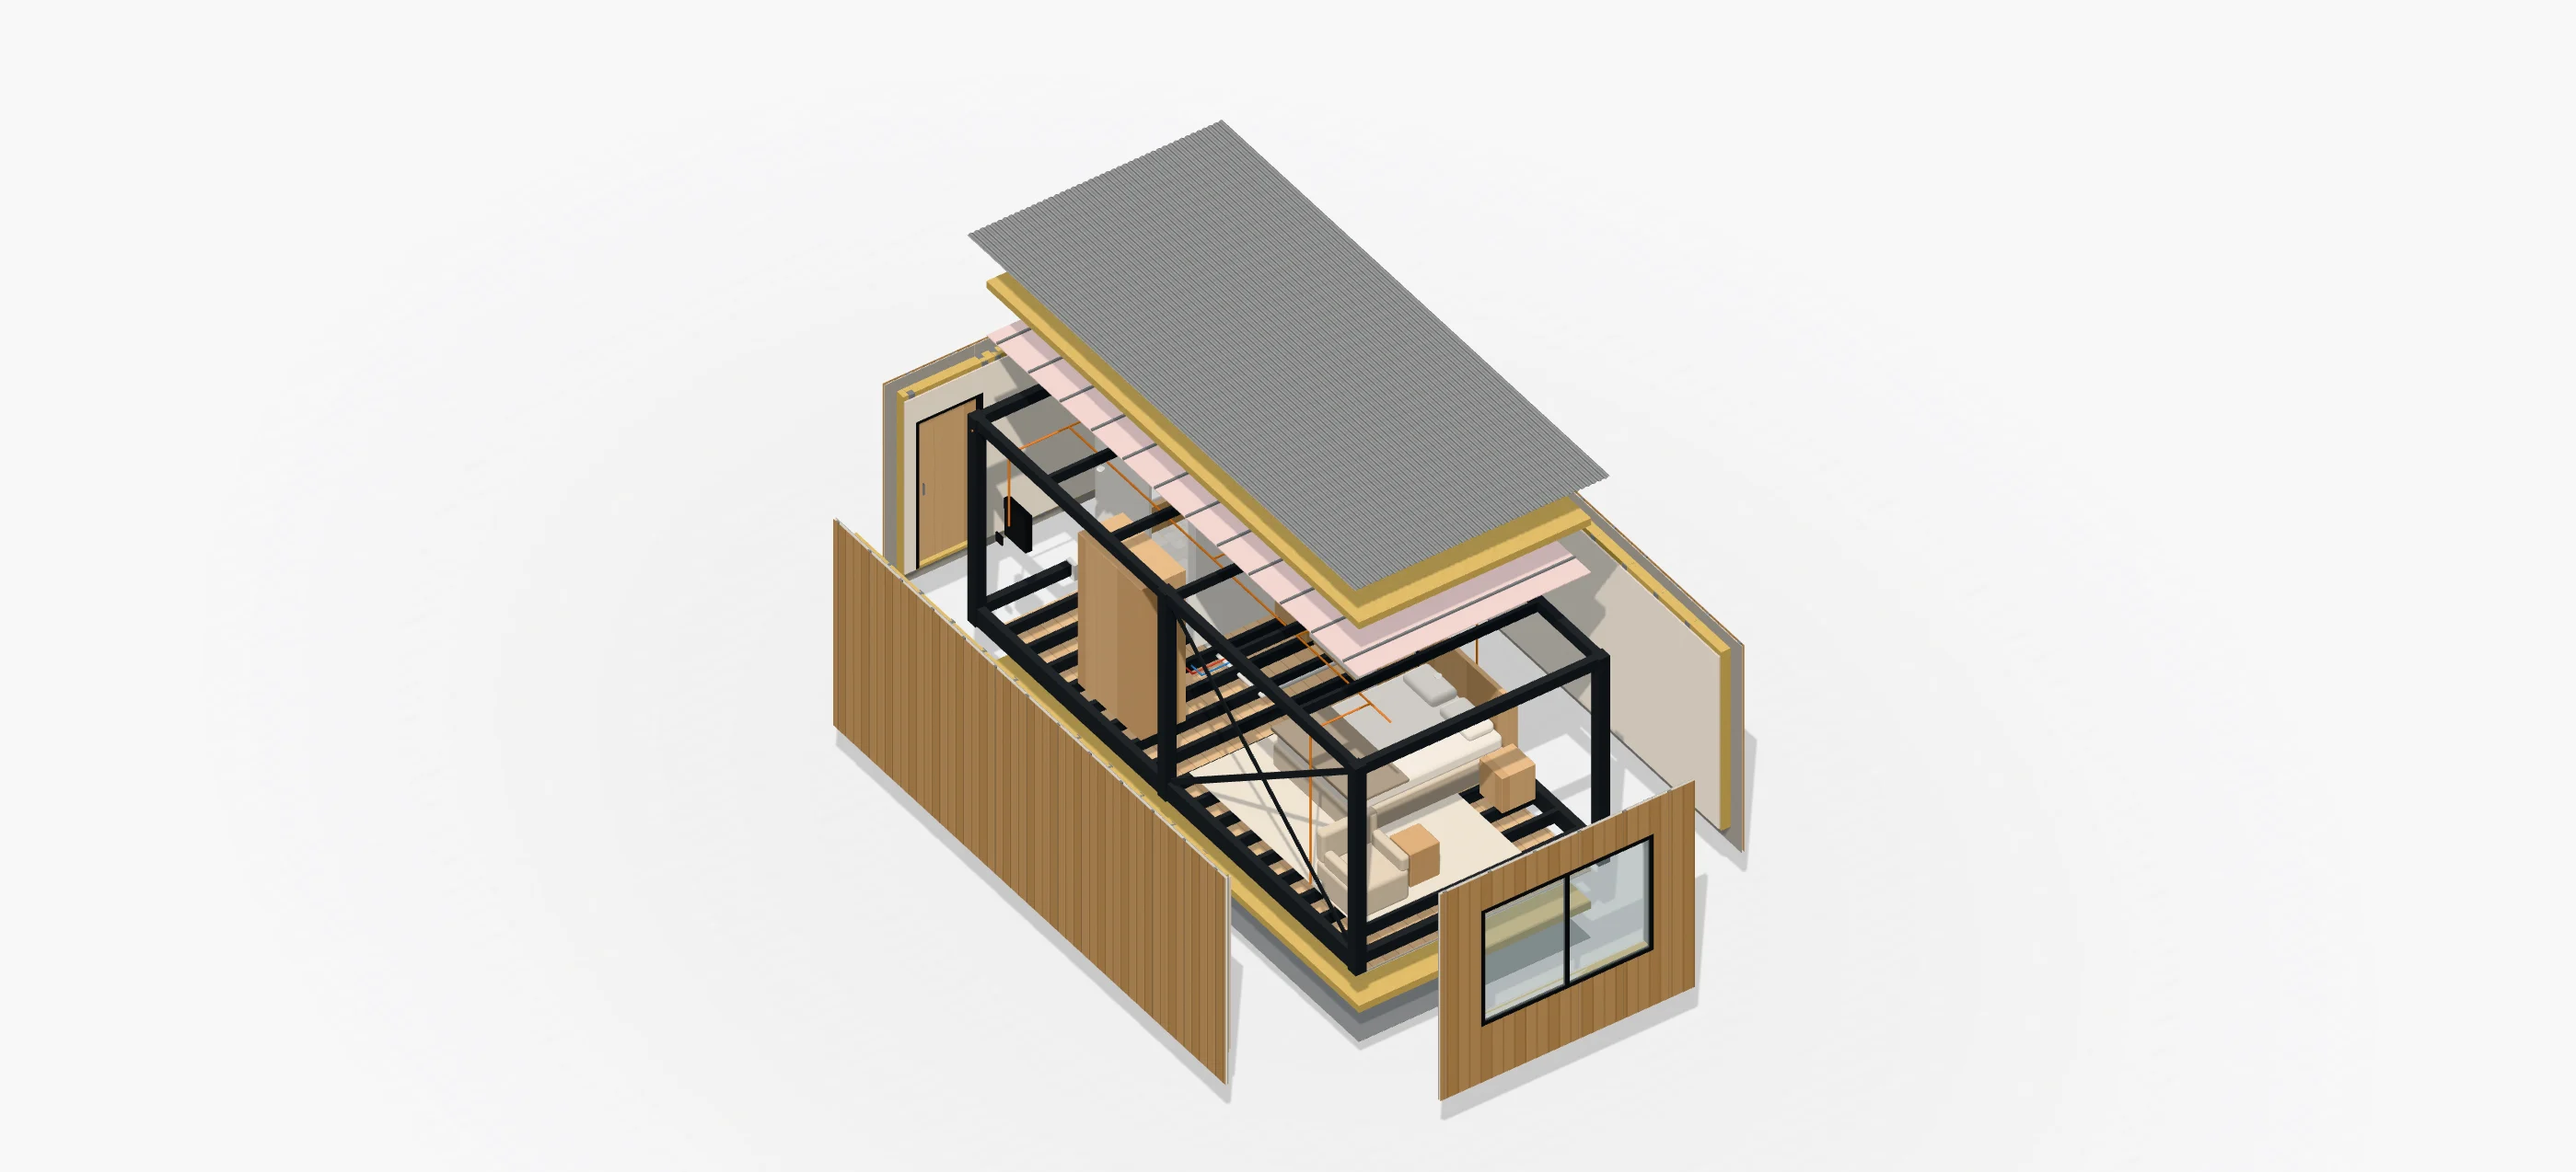
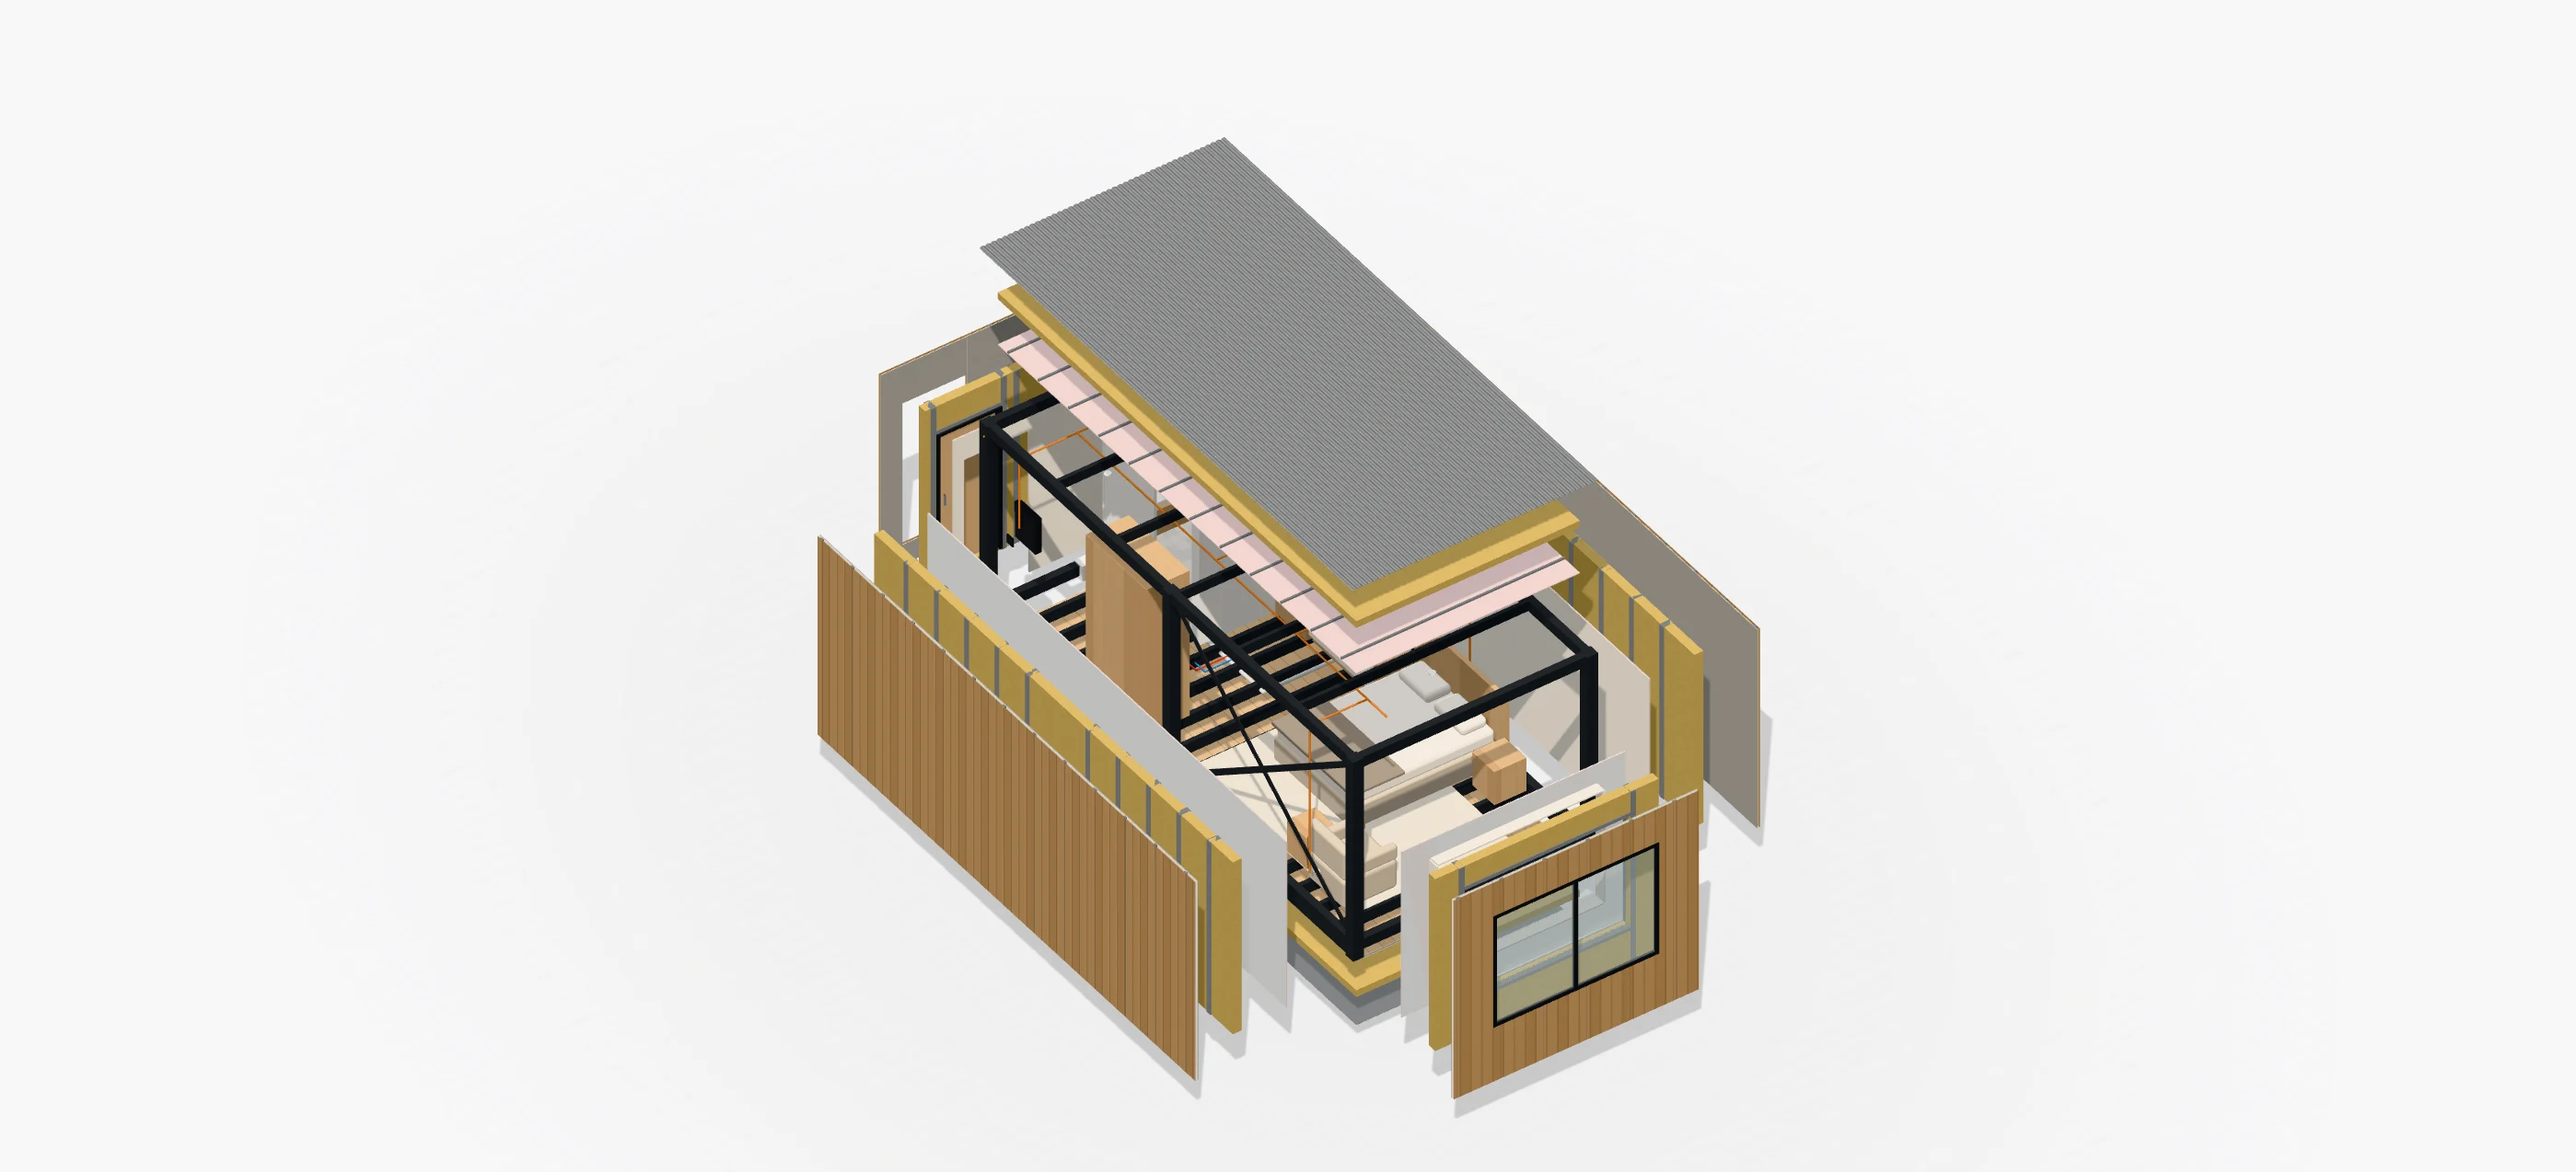
Separate the module's walls into layers and turn the armchair
Each wall now comes apart in three layers, like the floor and ceiling: the
lining, the steel studs with rock wool, and the outer skin with the cladding.
The armchair sits by the window with its back to the east wall, facing into
the room. The still is re-rendered.

Changed region(s): [[0.3109, 0.0918, 0.7152, 0.949], [0.6219, 0.8571, 0.653, 0.8878]]

diff --git a/src/lib/explorer/build-module.ts b/src/lib/explorer/build-module.ts
@@ -302,8 +302,24 @@ function addFrame(out: Out) {
 // Walls: each wall is described in its own frame (u along the wall, d through it, outwards positive from the
 // outer face of the frame), with rectangular openings cut through every layer.
 
+/** Each wall separates into three layers: lining inside, studs and rock wool, and the outer skin. */
+type WallLayer = "lining" | "frame" | "skin";
+const LAYER_OF: Partial<Record<MaterialKey, WallLayer>> = {
+  vapour: "lining",
+  plasterboard: "lining",
+  finishBoard: "lining",
+  galv: "frame",
+  rockwool: "frame",
+  fibreCement: "skin",
+  membrane: "skin",
+  batten: "skin",
+  cladding: "skin",
+  glass: "skin",
+  frameDark: "skin",
+};
+
 interface WallFrame {
-  part: PartId;
+  part: "wall-west" | "wall-east" | "wall-front" | "wall-back";
   /** Map wall-local (u along, y up, d outwards) to model space. */
   at(u: number, y: number, d: number): Vec3;
   length: number;
@@ -317,11 +333,12 @@ const walls: WallFrame[] = [
   { part: "wall-back", length: W, at: (u, y, d) => [u, y, L + d], opening: { u: DOOR.span, y: [FFL, DOOR.head] } },
 ];
 
-function wallBox(out: Out, wall: WallFrame, material: MaterialKey, u0: number, u1: number, y0: number, y1: number, d0: number, d1: number, group: GroupId = "walls") {
+function wallBox(out: Out, wall: WallFrame, material: MaterialKey, u0: number, u1: number, y0: number, y1: number, d0: number, d1: number, layer = LAYER_OF[material] ?? "frame") {
   if (u1 - u0 < 1e-4 || y1 - y0 < 1e-4) return;
   const a = wall.at(u0, y0, d0);
   const b = wall.at(u1, y1, d1);
-  out.box(group, material, [Math.min(a[0], b[0]), Math.min(a[1], b[1]), Math.min(a[2], b[2])], [Math.max(a[0], b[0]), Math.max(a[1], b[1]), Math.max(a[2], b[2])], group === "walls" ? wall.part : undefined);
+  const part = `${wall.part}-${layer}` as PartId;
+  out.box("walls", material, [Math.min(a[0], b[0]), Math.min(a[1], b[1]), Math.min(a[2], b[2])], [Math.max(a[0], b[0]), Math.max(a[1], b[1]), Math.max(a[2], b[2])], part);
 }
 
 /** A layer across the wall between u0..u1 and y0..y1 at depth d0..d1, with the wall's opening cut out. */
@@ -421,7 +438,8 @@ function addDoor(out: Out) {
   const [y0, y1] = o.y;
   const f = 0.04;
   const reveal = -PROFILES.stud.depth - WALL.plasterboard - WALL.finish - MIN_SHEET;
-  const piece = (a: number, b: number, c: number, e: number, material: MaterialKey, dd0: number, dd1: number) => wallBox(out, wall, material, a, b, c, e, dd0, dd1);
+  // The door and its frame travel with the studs when the wall separates
+  const piece = (a: number, b: number, c: number, e: number, material: MaterialKey, dd0: number, dd1: number) => wallBox(out, wall, material, a, b, c, e, dd0, dd1, "frame");
   piece(u0, u0 + f, y0, y1, "frameDark", reveal, WALL.board);
   piece(u1 - f, u1, y0, y1, "frameDark", reveal, WALL.board);
   piece(u0, u1, y1 - f, y1, "frameDark", reveal, WALL.board);

diff --git a/src/data/explorer/module-info.ts b/src/data/explorer/module-info.ts
@@ -4,7 +4,7 @@
  */
 
 import type { ExplorerPart } from "@/lib/explorer/parts";
-import type { GroupId, PartId, Vec3 } from "./module";
+import type { GroupId, Vec3 } from "./module";
 
 const PROPOSAL = "Rowland Street modular proposal";
 
@@ -103,11 +103,17 @@ export const moduleParts: (ExplorerPart & { id: GroupId })[] = [
 /**
  * Offsets at full separation, in metres. The floor layers stay low and everything else rises, so nothing drops
  * below the ground: the floor layers, then the frame with its fit-out and services, the walls pulled out on all
- * four sides (and lower), then the ceiling layers above, as in the proposal's exploded module.
+ * four sides (and lower), each wall in three layers, then the ceiling layers above, as in the proposal's exploded module.
  */
 const FRAME_LIFT = 1.6;
 const WALL_LIFT = 0.7; // lower than the frame, so the walls pulled towards the viewer don't hide the interior
-export const moduleExplode: Record<GroupId | PartId, Vec3> = {
+
+/** A wall's three layers move outwards by increasing distances: lining nearest the frame, then studs, then skin. */
+function wallLayers(wall: string, [dx, , dz]: Vec3, [lining, frame, skin]: [number, number, number]): Record<string, Vec3> {
+  const at = (distance: number): Vec3 => [dx * distance, WALL_LIFT, dz * distance];
+  return { [`${wall}-lining`]: at(lining), [`${wall}-frame`]: at(frame), [`${wall}-skin`]: at(skin) };
+}
+export const moduleExplode: Record<string, Vec3> = {
   structure: [0, FRAME_LIFT, 0],
   floor: [0, 0, 0],
   walls: [0, WALL_LIFT, 0],
@@ -122,10 +128,10 @@ export const moduleExplode: Record<GroupId | PartId, Vec3> = {
   "floor-base": [0, 0, 0],
   "floor-insulation": [0, 0.55, 0],
   "floor-deck": [0, 1.05, 0],
-  "wall-west": [-2.3, WALL_LIFT, 0],
-  "wall-east": [2.3, WALL_LIFT, 0],
-  "wall-front": [0, WALL_LIFT, -2.1],
-  "wall-back": [0, WALL_LIFT, 2.1],
+  ...wallLayers("wall-west", [-1, 0, 0], [1.3, 2.1, 2.9]),
+  ...wallLayers("wall-east", [1, 0, 0], [1.3, 2.1, 2.9]),
+  ...wallLayers("wall-front", [0, 0, -1], [1.2, 1.9, 2.6]),
+  ...wallLayers("wall-back", [0, 0, 1], [1.2, 1.9, 2.6]),
   "ceiling-lining": [0, 3.4, 0],
   "ceiling-insulation": [0, 4.2, 0],
   "ceiling-deck": [0, 5.0, 0],

diff --git a/src/data/explorer/module.ts b/src/data/explorer/module.ts
@@ -36,10 +36,7 @@ export type PartId =
   | "floor-base"
   | "floor-insulation"
   | "floor-deck"
-  | "wall-west"
-  | "wall-east"
-  | "wall-front"
-  | "wall-back"
+  | `${"wall-west" | "wall-east" | "wall-front" | "wall-back"}-${"lining" | "frame" | "skin"}`
   | "ceiling-lining"
   | "ceiling-insulation"
   | "ceiling-deck";
@@ -163,12 +160,12 @@ export const blocks: Block[] = [
   { group: "furniture", material: "linen", min: [0.3, FFL + 0.5, 2.45], max: [0.66, FFL + 0.64, 3.05], radius: 0.06 },
   { group: "furniture", material: "oak", min: [0.25, FFL, 1.06], max: [0.7, FFL + 0.5, 1.5], radius: 0.01 },
   { group: "furniture", material: "oak", min: [0.25, FFL, 3.3], max: [0.7, FFL + 0.5, 3.74], radius: 0.01 },
-  // Armchair, side table and rug by the window
-  { group: "furniture", material: "fabric", min: [2.35, FFL, 0.45], max: [3.1, FFL + 0.42, 1.2], radius: 0.06 },
-  { group: "furniture", material: "fabric", min: [2.35, FFL + 0.42, 1.05], max: [3.1, FFL + 0.85, 1.2], radius: 0.05 },
-  { group: "furniture", material: "fabric", min: [2.35, FFL + 0.42, 0.45], max: [2.47, FFL + 0.62, 1.05], radius: 0.04 },
-  { group: "furniture", material: "fabric", min: [2.98, FFL + 0.42, 0.45], max: [3.1, FFL + 0.62, 1.05], radius: 0.04 },
-  { group: "furniture", material: "oak", min: [1.85, FFL, 0.6], max: [2.25, FFL + 0.48, 1.0], radius: 0.02 },
+  // Armchair by the window with its back to the east wall, facing into the room, and a side table beside it
+  { group: "furniture", material: "fabric", min: [2.42, FFL, 0.5], max: [3.17, FFL + 0.42, 1.25], radius: 0.06 },
+  { group: "furniture", material: "fabric", min: [3.03, FFL + 0.42, 0.5], max: [3.17, FFL + 0.85, 1.25], radius: 0.05 },
+  { group: "furniture", material: "fabric", min: [2.42, FFL + 0.42, 0.5], max: [3.03, FFL + 0.62, 0.62], radius: 0.04 },
+  { group: "furniture", material: "fabric", min: [2.42, FFL + 0.42, 1.13], max: [3.03, FFL + 0.62, 1.25], radius: 0.04 },
+  { group: "furniture", material: "oak", min: [2.7, FFL, 1.35], max: [3.1, FFL + 0.48, 1.75], radius: 0.02 },
   { group: "furniture", material: "rug", min: [0.9, FFL, 0.4], max: [3.1, FFL + 0.008, 3.6] },
 ];
 
